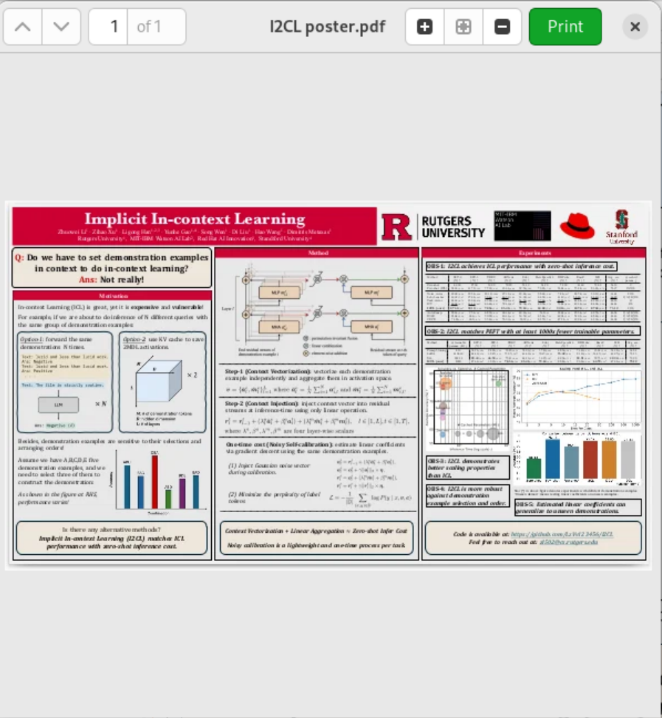
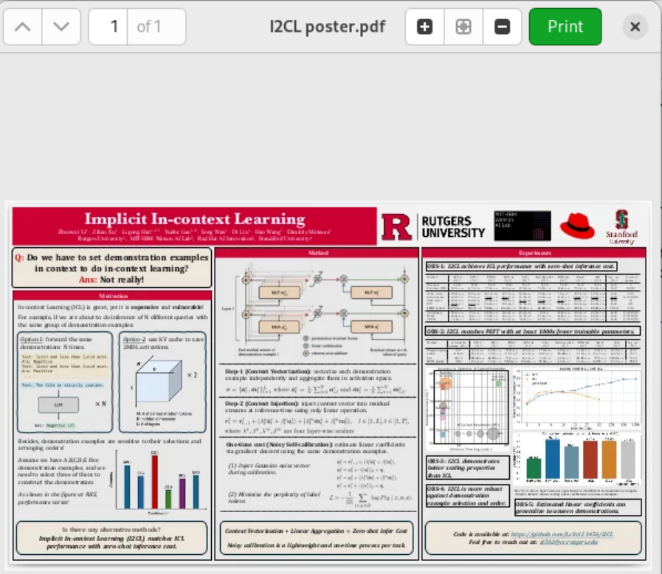
change

diff --git a/Core-Poster-Printer-Workflow.en.md b/Core-Poster-Printer-Workflow.en.md
@@ -54,9 +54,7 @@ This is the Core poster printer workflow that has had the highest success rate f
      </tr>
      <tr>
        <td valign="top">
-         <div style="width: 360px; height: 312px; overflow: hidden;">
-           <img src="core-poster-printer-assets/09-preview-correct.png" alt="Correct preview example" width="360">
-         </div>
+         <img src="core-poster-printer-assets/09-preview-correct.png" alt="Correct preview example" width="360">
        </td>
        <td valign="top">
          <img src="core-poster-printer-assets/08-preview-wrong.png" alt="Incorrect preview example" width="360">

diff --git a/README.md b/README.md
@@ -56,9 +56,7 @@
      </tr>
      <tr>
        <td valign="top">
-         <div style="width: 360px; height: 312px; overflow: hidden;">
-           <img src="core-poster-printer-assets/09-preview-correct.png" alt="预览正确示例" width="360">
-         </div>
+         <img src="core-poster-printer-assets/09-preview-correct.png" alt="预览正确示例" width="360">
        </td>
        <td valign="top">
          <img src="core-poster-printer-assets/08-preview-wrong.png" alt="预览错误示例" width="360">
